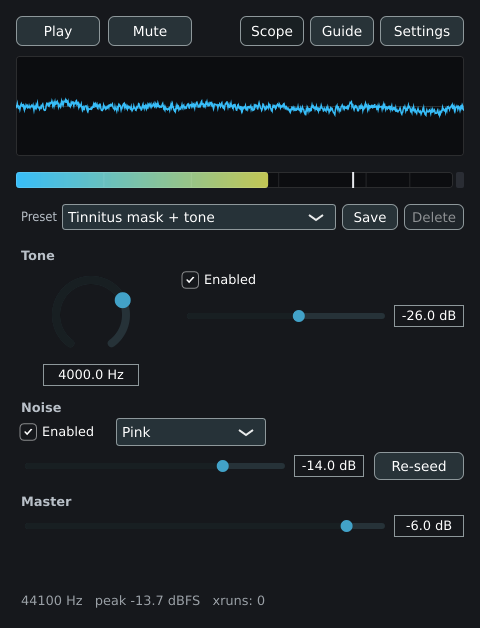
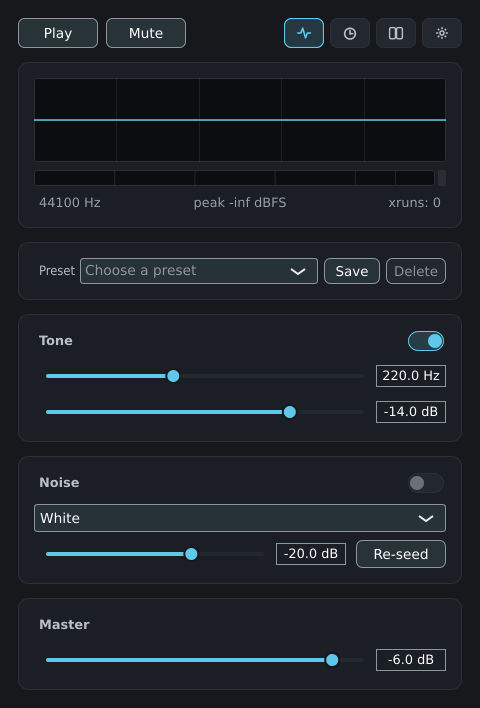
docs: refresh screenshots and wording for the card-based redesign
main.png, main-scope.png and preset-menu.png were still the pre-redesign
window (rotary knob, no card grouping, text transport buttons) -- retake
them against the current build (real X11 clicks via python-xlib + XTEST
under Xvfb, not mocked). settings.png is unchanged since SettingsComponent
wasn't touched by the redesign, so it's left as the original capture from
real hardware rather than replaced with a sandbox dummy device.

README's screenshot captions and the guide's Frequency/session-timer
wording no longer mention the removed rotary knob or bare "Scope" button
text now that those are an icon with a tooltip.

diff --git a/docs/guide.md b/docs/guide.md
@@ -56,8 +56,8 @@ the signal is being clipped by the limiter. Toggle it with the **Scope** button.
 ### Tone
 
 - **Enabled** — includes the tone in the mix.
-- **Frequency** — pitch of the tone, 20 Hz to 20 kHz. Drag the knob, or double-click the
-  number to type an exact value in Hz. The knob is logarithmic, so low frequencies get more
+- **Frequency** — pitch of the tone, 20 Hz to 20 kHz. Drag the slider, or double-click the
+  number to type an exact value in Hz. The slider is logarithmic, so low frequencies get more
   travel. Changes are ramped over about 30 ms so they never click.
 - **Level** — loudness of the tone, in decibels. At the bottom it is fully silent.
 
@@ -82,7 +82,9 @@ the signal is being clipped by the limiter. Toggle it with the **Scope** button.
 
 ### Session timer
 
-An optional sleep-timer: play for a set time, then fade out and stop automatically.
+An optional sleep-timer: play for a set time, then fade out and stop automatically. The
+clock icon in the transport bar shows or hides this section; like the oscilloscope, the
+window grows and shrinks to fit and the state is remembered between runs.
 
 - **Duration** — how long the session lasts, in minutes.
 - **Fade in** — how many seconds it takes to rise from silence to your master **Level** when

diff --git a/README.md b/README.md
@@ -32,9 +32,9 @@ the VST3 / LV2 / CLAP plugins. To build from source instead, see below.
 
 <p align="center">
   <img src="docs/images/main.png" alt="Noisefield main window" width="440"><br>
-  <em>Main window: transport, the preset menu (factory + saved presets), the tone source
-  (frequency knob with Hz entry, and level), the noise source (colour and level), the master
-  level, and the dBFS output meter.</em>
+  <em>Main window: transport with the level meter and device status, the preset menu
+  (factory + saved presets), and a card each for the tone source (frequency and level), the
+  noise source (colour and level), and the master level.</em>
 </p>
 
 <p align="center">
@@ -46,7 +46,7 @@ the VST3 / LV2 / CLAP plugins. To build from source instead, see below.
 
 <p align="center">
   <img src="docs/images/main-scope.png" alt="Noisefield with the oscilloscope expanded" width="440"><br>
-  <em>The Scope button expands a master-output oscilloscope in place, aligned to a rising
+  <em>The waveform icon expands a master-output oscilloscope in place, aligned to a rising
   zero-crossing; the window resizes to fit.</em>
 </p>
 
